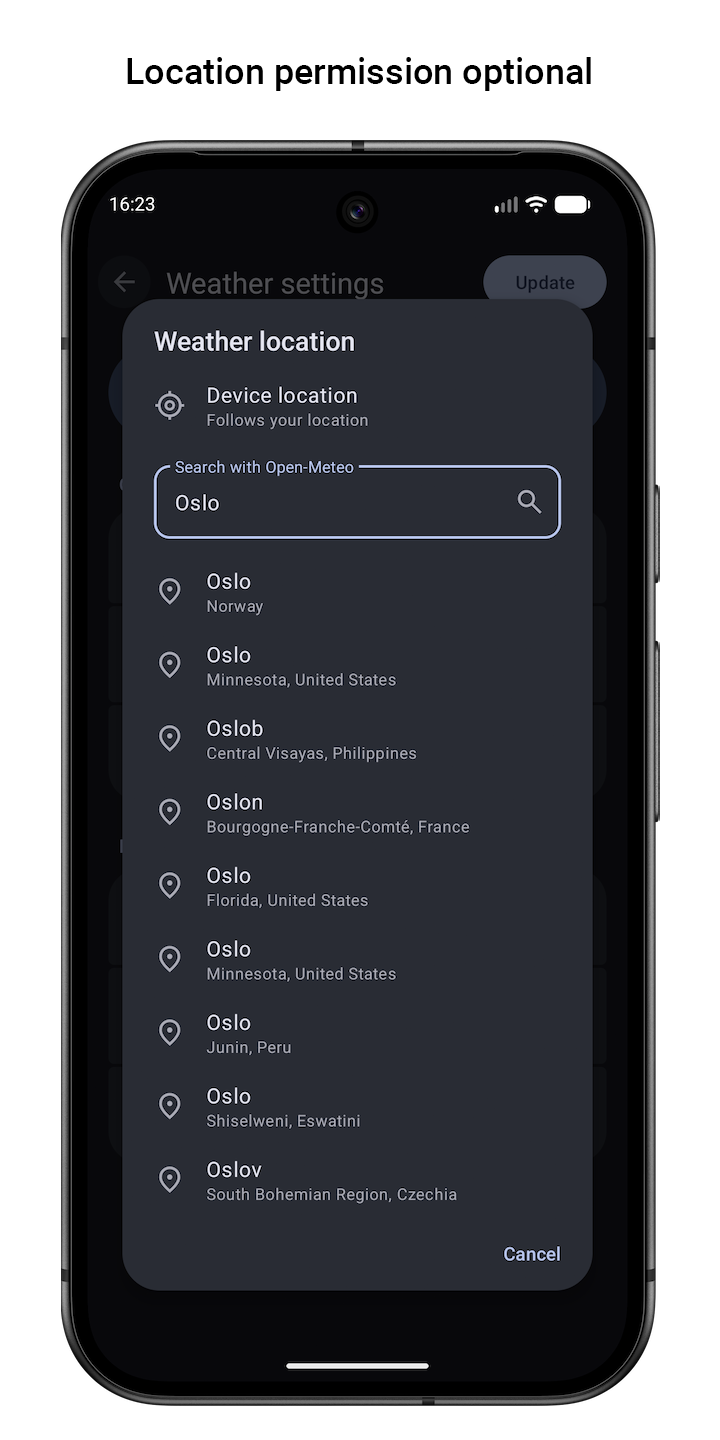
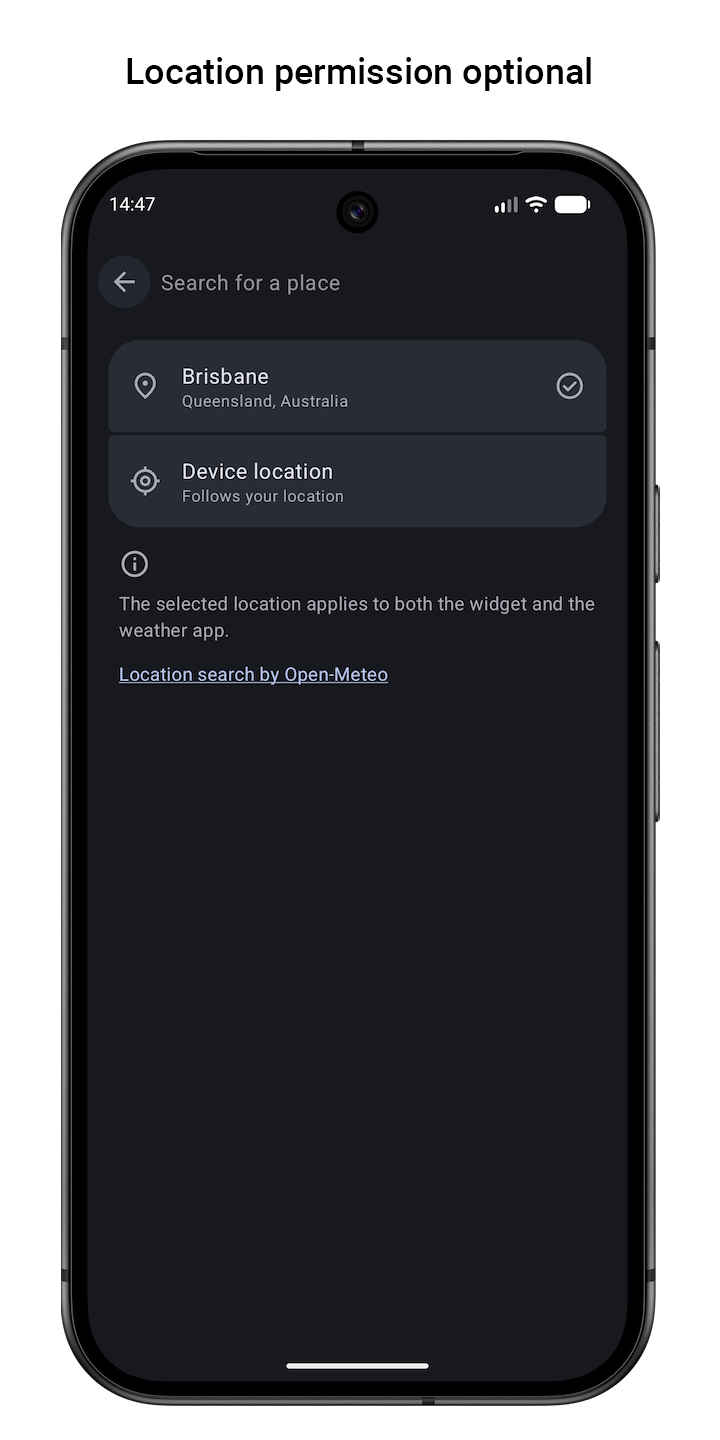
Update screenshots

diff --git a/README.md b/README.md
@@ -24,15 +24,15 @@ All download options provide the same APK file, signed with the same signing key
 ## Screenshots
 
 <div>
-    <img src="fastlane/metadata/android/en-US/images/phoneScreenshots/01.png?v=3" alt="Screen 1" style="width: 250px; margin-bottom: 20px;"/>
-    <img src="fastlane/metadata/android/en-US/images/phoneScreenshots/02.png?v=3" alt="Screen 2" style="width: 250px; margin-bottom: 20px;"/>
-    <img src="fastlane/metadata/android/en-US/images/phoneScreenshots/03.png?v=3" alt="Screen 3" style="width: 250px; margin-bottom: 20px;"/>
-    <img src="fastlane/metadata/android/en-US/images/phoneScreenshots/04.png?v=3" alt="Screen 4" style="width: 250px; margin-bottom: 20px;"/>
-    <img src="fastlane/metadata/android/en-US/images/phoneScreenshots/05.png?v=3" alt="Screen 5" style="width: 250px; margin-bottom: 20px;"/>
-    <img src="fastlane/metadata/android/en-US/images/phoneScreenshots/06.png?v=3" alt="Screen 6" style="width: 250px; margin-bottom: 20px;"/>
-    <img src="fastlane/metadata/android/en-US/images/phoneScreenshots/07.png?v=3" alt="Screen 7" style="width: 250px; margin-bottom: 20px;"/>
-    <img src="fastlane/metadata/android/en-US/images/phoneScreenshots/08.png?v=3" alt="Screen 8" style="width: 250px; margin-bottom: 20px;"/>
-    <img src="fastlane/metadata/android/en-US/images/phoneScreenshots/09.png?v=3" alt="Screen 9" style="width: 250px; margin-bottom: 20px;"/>
+    <img src="fastlane/metadata/android/en-US/images/phoneScreenshots/01.png?v=4" alt="Screen 1" style="width: 250px; margin-bottom: 20px;"/>
+    <img src="fastlane/metadata/android/en-US/images/phoneScreenshots/02.png?v=4" alt="Screen 2" style="width: 250px; margin-bottom: 20px;"/>
+    <img src="fastlane/metadata/android/en-US/images/phoneScreenshots/03.png?v=4" alt="Screen 3" style="width: 250px; margin-bottom: 20px;"/>
+    <img src="fastlane/metadata/android/en-US/images/phoneScreenshots/04.png?v=4" alt="Screen 4" style="width: 250px; margin-bottom: 20px;"/>
+    <img src="fastlane/metadata/android/en-US/images/phoneScreenshots/05.png?v=4" alt="Screen 5" style="width: 250px; margin-bottom: 20px;"/>
+    <img src="fastlane/metadata/android/en-US/images/phoneScreenshots/06.png?v=4" alt="Screen 6" style="width: 250px; margin-bottom: 20px;"/>
+    <img src="fastlane/metadata/android/en-US/images/phoneScreenshots/07.png?v=4" alt="Screen 7" style="width: 250px; margin-bottom: 20px;"/>
+    <img src="fastlane/metadata/android/en-US/images/phoneScreenshots/08.png?v=4" alt="Screen 8" style="width: 250px; margin-bottom: 20px;"/>
+    <img src="fastlane/metadata/android/en-US/images/phoneScreenshots/09.png?v=4" alt="Screen 9" style="width: 250px; margin-bottom: 20px;"/>
 </div>
 
 ## Documentation
